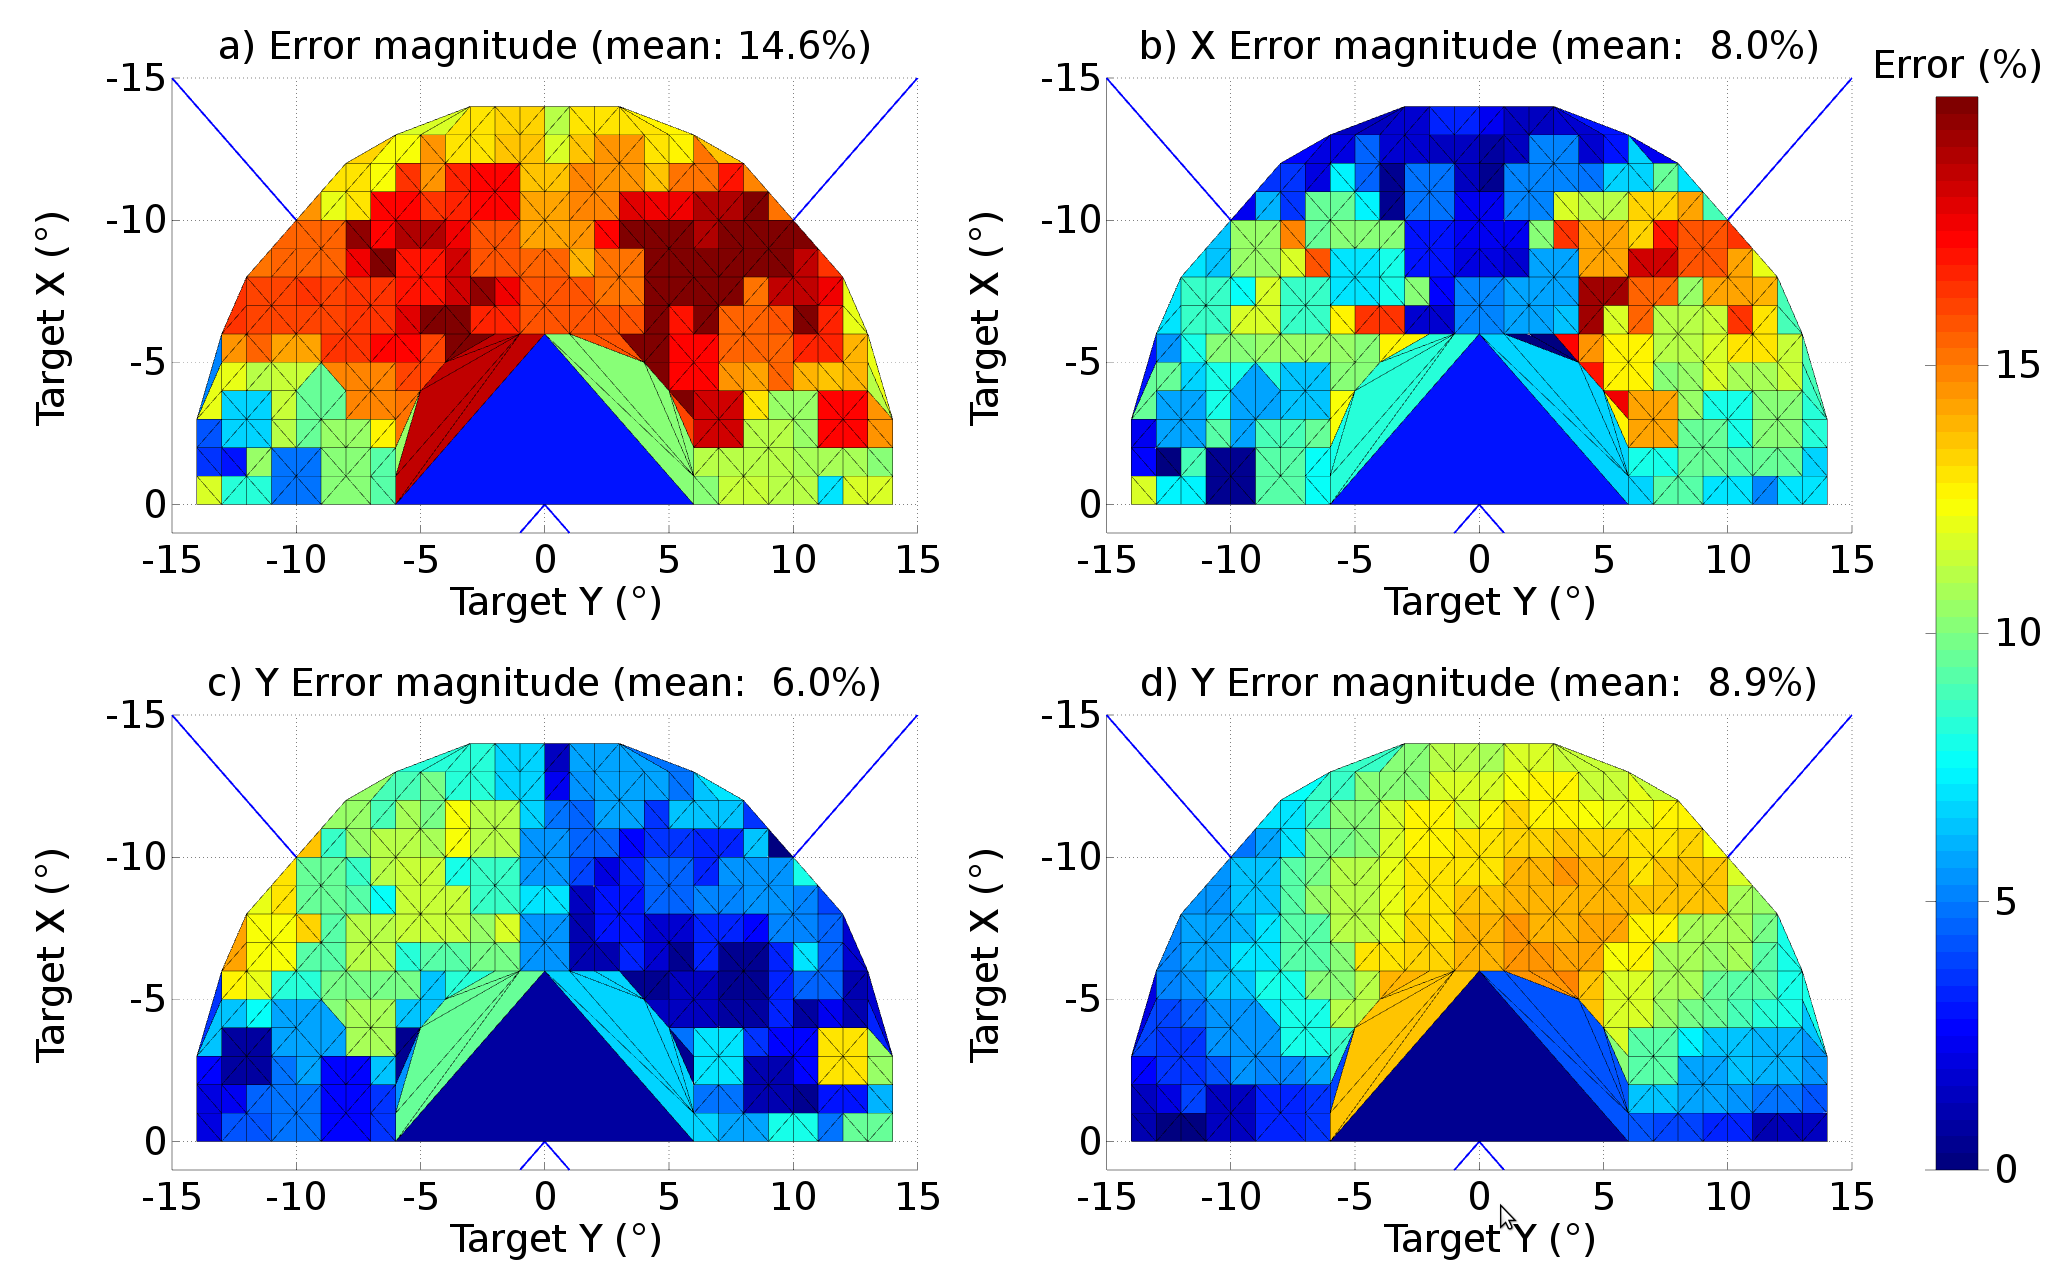
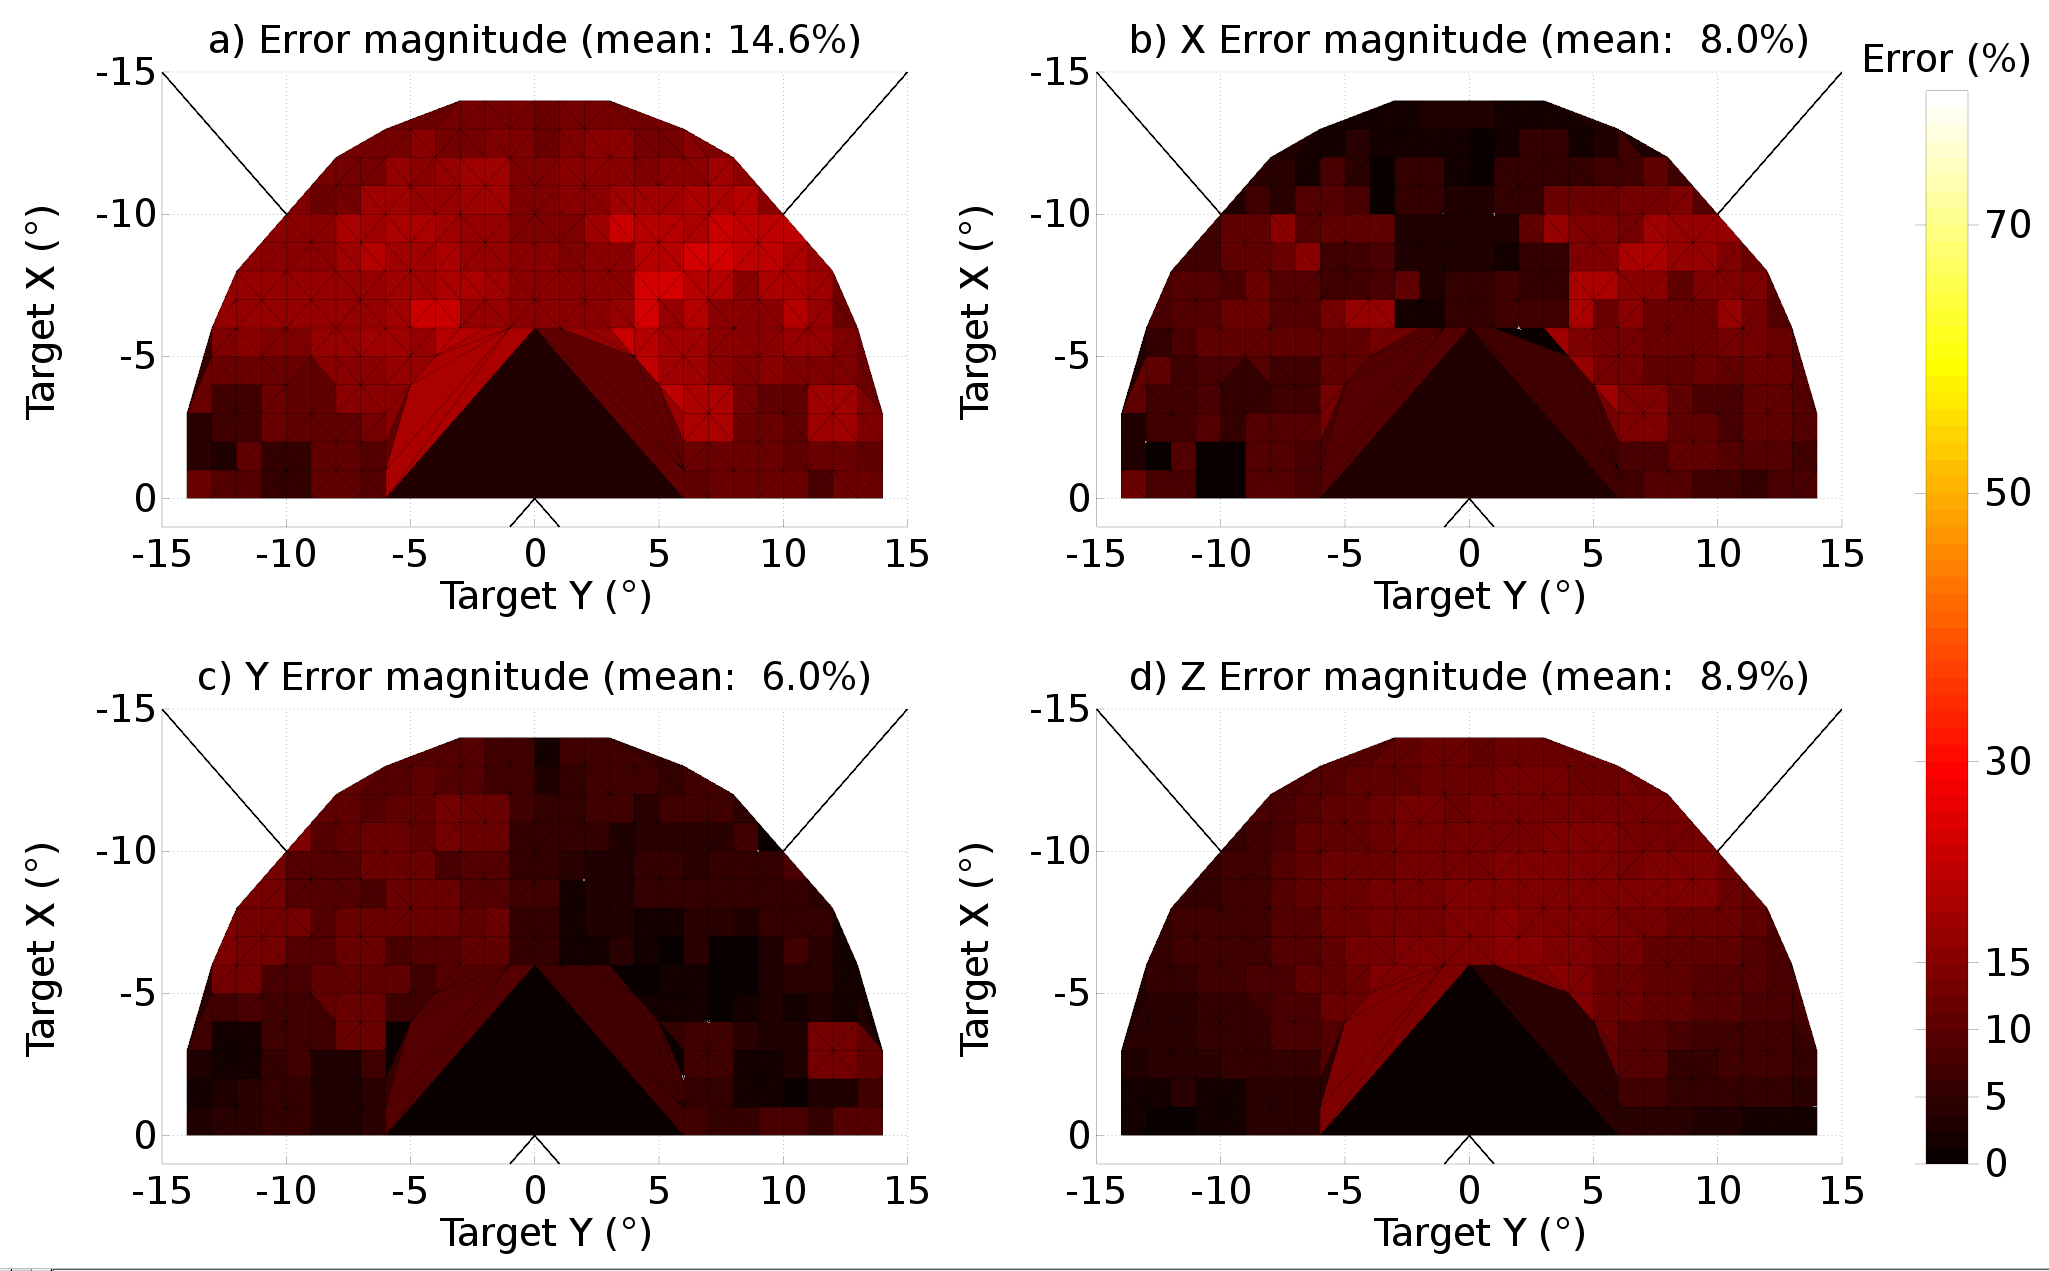
Better colourmaps for error surface plots

diff --git a/batch_scripts/expt_errorsurf/plot_forpaper.m b/batch_scripts/expt_errorsurf/plot_forpaper.m
@@ -68,14 +68,16 @@ end
 X=rr4(:,1);
 Y=rr4(:,2);
 
+colormap('hot')
+
 hax(1) = subaxis (2,2,1, 'SpacingVert', sa_spc, 'SpacingHoriz', sa_spc, ...
                   'PaddingLeft', 0, 'PaddingRight', sa_pad_mid, 'PaddingTop', 0, 'PaddingBottom', sa_pad, ...
                   'MarginLeft', sa_marg_sideout, 'MarginRight', sa_marg, 'MarginTop', sa_marg, 'MarginBottom', sa_marg_mid);
 
 trisurf(delaunay(X,Y),X,Y,abs(errpcnt4));
 hold on;
-plot ([1,-15],[-1,15],'b','linewidth',lw,'markersize',ms)
-plot ([-15,1],[-15,1],'b','linewidth',lw,'markersize',ms)
+plot ([1,-15],[-1,15],'k','linewidth',lw,'markersize',ms)
+plot ([-15,1],[-15,1],'k','linewidth',lw,'markersize',ms)
 hold off;
 
 setaxprops (hax(1), fs1);
@@ -103,8 +105,8 @@ hax(2) = subaxis (2,2,2, 'SpacingVert', sa_spc, 'SpacingHoriz', sa_spc, ...
 
 trisurf(delaunay(X,Y),X,Y,abs(errs4(:,1))./abs(targmags4).*100);
 hold on;
-plot ([1,-15],[-1,15],'b','linewidth',lw,'markersize',ms)
-plot ([-15,1],[-15,1],'b','linewidth',lw,'markersize',ms)
+plot ([1,-15],[-1,15],'k','linewidth',lw,'markersize',ms)
+plot ([-15,1],[-15,1],'k','linewidth',lw,'markersize',ms)
 hold off;
 
 setaxprops (hax(2), fs1);
@@ -129,8 +131,8 @@ hax(3) = subaxis (2,2,3, 'SpacingVert', sa_spc, 'SpacingHoriz', sa_spc, ...
 
 trisurf(delaunay(X,Y),X,Y,abs(errs4(:,2))./abs(targmags4).*100);
 hold on;
-plot ([1,-15],[-1,15],'b','linewidth',lw,'markersize',ms)
-plot ([-15,1],[-15,1],'b','linewidth',lw,'markersize',ms)
+plot ([1,-15],[-1,15],'k','linewidth',lw,'markersize',ms)
+plot ([-15,1],[-15,1],'k','linewidth',lw,'markersize',ms)
 hold off;
 
 setaxprops (hax(3), fs1);
@@ -155,8 +157,8 @@ hax(4) = subaxis (2,2,4, 'SpacingVert', sa_spc, 'SpacingHoriz', sa_spc, ...
 
 trisurf(delaunay(X,Y),X,Y,abs(errs4(:,3))./abs(targmags4).*100);
 hold on;
-plot ([1,-15],[-1,15],'b','linewidth',lw,'markersize',ms)
-plot ([-15,1],[-15,1],'b','linewidth',lw,'markersize',ms)
+plot ([1,-15],[-1,15],'k','linewidth',lw,'markersize',ms)
+plot ([-15,1],[-15,1],'k','linewidth',lw,'markersize',ms)
 hold off;
 
 setaxprops (hax(4), fs1);
@@ -167,19 +169,19 @@ hyl(4)=ylabel(targytxt, 'fontsize', fs1);
 offsetylabel(hyl(4));
 
 zlabel('mag. of errorRotZ)');
-title (['d) Y Error magnitude (mean:' sprintf('%5.1f', sum(abs(errs4(:,3))./abs(targmags4).*100) ./ length(errs4(:,3)) ) '%)'], 'fontsize', fs1);
+title (['d) Z Error magnitude (mean:' sprintf('%5.1f', sum(abs(errs4(:,3))./abs(targmags4).*100) ./ length(errs4(:,3)) ) '%)'], 'fontsize', fs1);
 view([viewx viewy]);
 zlim([0 zmax]);
 xlim([-15,1]);
 
-clim=[0 20]; % Data range...
+clim=[0 80]; % Data range matching that for TModel3
 caxis(clim);
 set(hax,'CLim',clim);
 
 opos = get (hax(4), 'position'); % Original Position
 cbh = colorbar('position', [opos(1)+opos(3)+0.04  opos(2)  0.02  opos(2)+opos(3)*2.1])
 set (hax(4), 'position', opos);
-set(cbh,'linewidth', 0.5, 'tickdir', 'out', 'ticklength', [0.01,0.01], 'ytick', [0, 5, 10, 15]);
+set(cbh,'linewidth', 0.5, 'tickdir', 'out', 'ticklength', [0.01,0.01], 'ytick', [0, 5, 10, 15, 30, 50, 70]);
 %'yticklabel',{'zero','ten','23','42','fifty'},
 
 set(cbh, 'position', [opos(1)+opos(3)+0.04  opos(2)  0.02 opos(2)+opos(3)*2.1], 'fontsize', fs1)

diff --git a/batch_scripts/expt_errorsurf/plot_forpaperTModel3.m b/batch_scripts/expt_errorsurf/plot_forpaperTModel3.m
@@ -67,14 +67,16 @@ end
 X=rr4(:,1);
 Y=rr4(:,2);
 
+colormap('hot')
+
 hax(1) = subaxis (2,2,1, 'SpacingVert', sa_spc, 'SpacingHoriz', sa_spc, ...
                   'PaddingLeft', 0, 'PaddingRight', sa_pad_mid, 'PaddingTop', 0, 'PaddingBottom', sa_pad, ...
                   'MarginLeft', sa_marg_sideout, 'MarginRight', sa_marg, 'MarginTop', sa_marg, 'MarginBottom', sa_marg_mid);
 
 trisurf(delaunay(X,Y),X,Y,abs(errpcnt4));
 hold on;
-plot ([1,-15],[-1,15],'b','linewidth',lw,'markersize',ms)
-plot ([-15,1],[-15,1],'b','linewidth',lw,'markersize',ms)
+plot ([1,-15],[-1,15],'k','linewidth',lw,'markersize',ms)
+plot ([-15,1],[-15,1],'k','linewidth',lw,'markersize',ms)
 hold off;
 
 setaxprops (hax(1), fs1);
@@ -102,8 +104,8 @@ hax(2) = subaxis (2,2,2, 'SpacingVert', sa_spc, 'SpacingHoriz', sa_spc, ...
 
 trisurf(delaunay(X,Y),X,Y,abs(errs4(:,1))./abs(targmags4).*100);
 hold on;
-plot ([1,-15],[-1,15],'b','linewidth',lw,'markersize',ms)
-plot ([-15,1],[-15,1],'b','linewidth',lw,'markersize',ms)
+plot ([1,-15],[-1,15],'k','linewidth',lw,'markersize',ms)
+plot ([-15,1],[-15,1],'k','linewidth',lw,'markersize',ms)
 hold off;
 
 setaxprops (hax(2), fs1);
@@ -128,8 +130,8 @@ hax(3) = subaxis (2,2,3, 'SpacingVert', sa_spc, 'SpacingHoriz', sa_spc, ...
 
 trisurf(delaunay(X,Y),X,Y,abs(errs4(:,2))./abs(targmags4).*100);
 hold on;
-plot ([1,-15],[-1,15],'b','linewidth',lw,'markersize',ms)
-plot ([-15,1],[-15,1],'b','linewidth',lw,'markersize',ms)
+plot ([1,-15],[-1,15],'k','linewidth',lw,'markersize',ms)
+plot ([-15,1],[-15,1],'k','linewidth',lw,'markersize',ms)
 hold off;
 
 setaxprops (hax(3), fs1);
@@ -154,8 +156,8 @@ hax(4) = subaxis (2,2,4, 'SpacingVert', sa_spc, 'SpacingHoriz', sa_spc, ...
 
 trisurf(delaunay(X,Y),X,Y,abs(errs4(:,3))./abs(targmags4).*100);
 hold on;
-plot ([1,-15],[-1,15],'b','linewidth',lw,'markersize',ms)
-plot ([-15,1],[-15,1],'b','linewidth',lw,'markersize',ms)
+plot ([1,-15],[-1,15],'k','linewidth',lw,'markersize',ms)
+plot ([-15,1],[-15,1],'k','linewidth',lw,'markersize',ms)
 hold off;
 
 setaxprops (hax(4), fs1);
@@ -166,7 +168,7 @@ hyl(4)=ylabel(targytxt, 'fontsize', fs1);
 offsetylabel(hyl(4));
 
 zlabel('mag. of errorRotZ)');
-title (['d) Y Error magnitude (mean:' sprintf('%5.1f', sum(abs(errs4(:,3))./abs(targmags4).*100) ./ length(errs4(:,3)) ) '%)'], 'fontsize', fs1);
+title (['d) Z Error magnitude (mean:' sprintf('%5.1f', sum(abs(errs4(:,3))./abs(targmags4).*100) ./ length(errs4(:,3)) ) '%)'], 'fontsize', fs1);
 view([viewx viewy]);
 zlim([0 zmax]);
 xlim([-15,1]);
@@ -178,7 +180,7 @@ set(hax,'CLim',clim);
 opos = get (hax(4), 'position'); % Original POSition
 cbh = colorbar('position', [opos(1)+opos(3)+0.04  opos(2)  0.02  opos(2)+opos(3)*2.1])
 set (hax(4), 'position', opos);
-set(cbh,'linewidth', 0.5, 'tickdir', 'out', 'ticklength', [0.01,0.01], 'ytick', [0, 25, 50, 75]);
+set(cbh,'linewidth', 0.5, 'tickdir', 'out', 'ticklength', [0.01,0.01], 'ytick', [0, 5, 10, 15, 30, 50, 70]);
 %'yticklabel',{'zero','ten','23','42','fifty'},
 
 set(cbh, 'position', [opos(1)+opos(3)+0.04  opos(2)  0.02 opos(2)+opos(3)*2.1], 'fontsize', fs1)
